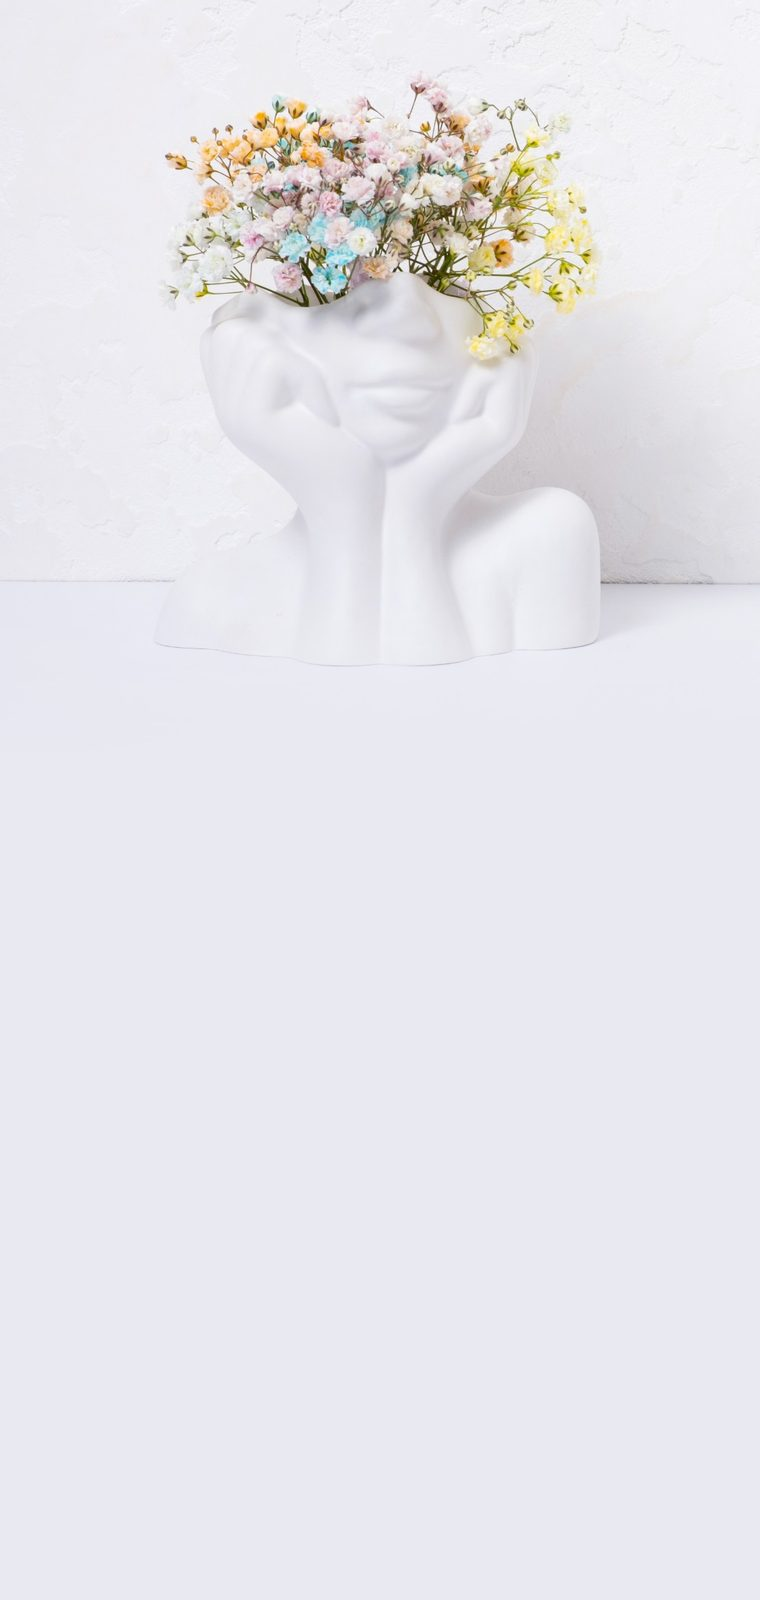
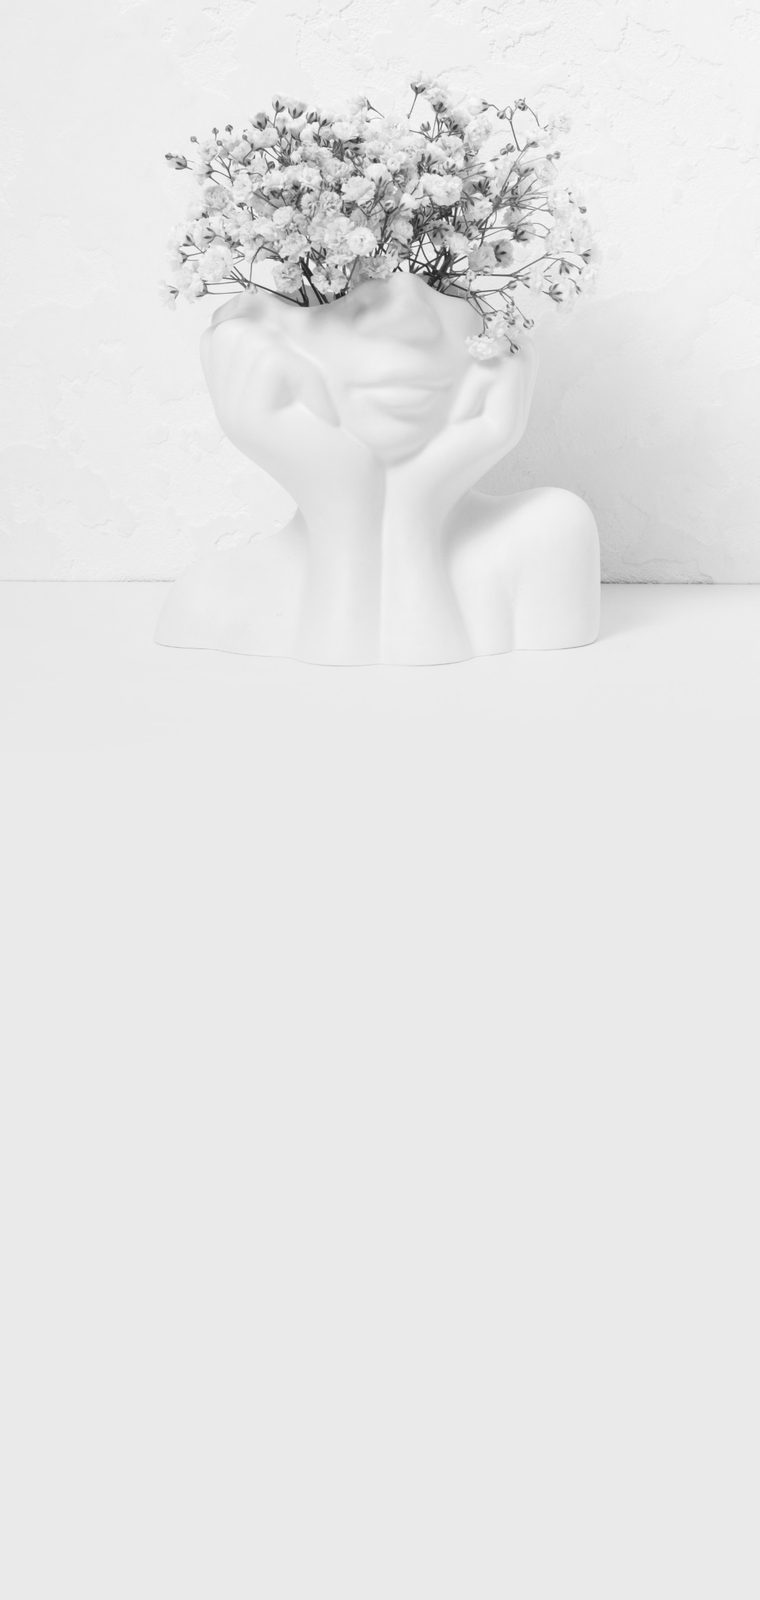
C: imagem do topo em tons de cinza e quadro de texto que sobe sobre ela
- A imagem do topo passa a ser um arquivo em tons de cinza (regra do protótipo).
- No começo da rolagem, a imagem fica parada (sticky) e o quadro de texto sobe
  por cima dela até cobri-la (35% da altura da tela); depois, tudo segue rolando.
  Com "reduzir movimento", a imagem rola junto com o texto.
- Sai o encaixe na rolagem herdado da B: ele puxava a página de volta e brigava
  com o efeito.
- Especificação da C, MUDANCAS e CLAUDE.md atualizados.

Claude-Session: https://claude.ai/code/session_01SbXmNJWouaBwHEo1Xrizwe

Changed region(s): [[0.2118, 0.0625, 0.7868, 0.2188]]

diff --git a/alternativa-c/estilo-c.css b/alternativa-c/estilo-c.css
@@ -24,8 +24,7 @@
   --tom-carta-atras-1: #e0e0e0;
   --tom-carta-atras-2: #cbcbcb;
   --serifa: ui-serif, Georgia, "Times New Roman", serif; /* só no nome e na profissão do topo */
-  /* só o topo "encaixa" na rolagem; as demais seções têm a altura do conteúdo */
-  scroll-snap-type: y proximity;
+  /* sem encaixe na rolagem: ele brigaria com a imagem parada do topo */
   scroll-padding-top: var(--altura-cabecalho);
 }
 
@@ -238,37 +237,51 @@ main > .secao:last-child {
 
 /* ---------- 1. Topo em tela cheia ---------- */
 
+/* O topo tem a altura da tela e mais um trecho de rolagem (--topo-rolagem). Nesse trecho a
+   imagem fica parada (sticky) e o quadro de texto sobe por cima dela; depois, tudo segue rolando. */
 .topo {
+  --altura-imagem: calc(100vh - var(--altura-cabecalho) - 12px);
+  --topo-rolagem: 35vh;
   position: relative;
-  display: flex;
-  flex-direction: column;
-  justify-content: flex-end;
-  min-height: calc(100vh - var(--altura-cabecalho));
-  min-height: calc(100svh - var(--altura-cabecalho));
+  display: grid;
+  grid-template-rows: minmax(var(--altura-imagem), auto) var(--topo-rolagem);
   padding: 0 12px 12px;
-  scroll-snap-align: start;
   scroll-margin-top: 0;
 }
 
-/* Imagem da identidade visual: ocupa todo o bloco; o busto fica no centro da faixa de cima,
-   acima do painel de texto. Em telas mais baixas, o recorte acompanha pelo alto. */
+@supports (height: 100svh) {
+  .topo {
+    --altura-imagem: calc(100svh - var(--altura-cabecalho) - 12px);
+    --topo-rolagem: 35svh;
+  }
+}
+
+/* Imagem da identidade visual (tons de cinza): ocupa a primeira tela; o busto fica no centro
+   da faixa de cima, acima do quadro de texto. Ocupa as duas linhas para poder ficar parada. */
 .topo-imagem {
-  position: absolute;
-  top: 0;
-  left: 12px;
-  width: calc(100% - 24px);
-  height: calc(100% - 12px);
+  grid-column: 1;
+  grid-row: 1 / 3;
+  align-self: start;
+  position: sticky;
+  top: var(--altura-cabecalho);
+  width: 100%;
+  height: var(--altura-imagem);
   border-radius: var(--raio-cartao);
   object-fit: cover;
   object-position: center top;
   background: var(--superficie-forte); /* enquanto a imagem carrega */
 }
 
+/* Quadro de texto e ação: na base da primeira tela, por cima da imagem */
 .topo-conteudo {
+  grid-column: 1;
+  grid-row: 1;
+  align-self: end;
   position: relative;
+  z-index: 1;
   display: grid;
   gap: 12px;
-  padding: 72px 12px 12px;
+  padding: 12px;
 }
 
 /* Fundo claro semitransparente sobre a imagem: garante contraste AA */
@@ -926,8 +939,17 @@ main > .secao:last-child {
   }
 }
 
-/* "Reduzir movimento": sem entrada, sem deslize nem giro; só troca de opacidade */
+/* "Reduzir movimento": sem entrada, sem deslize nem giro; só troca de opacidade.
+   No topo, a imagem não fica parada: rola junto com o texto. */
 @media (prefers-reduced-motion: reduce) {
+  .topo {
+    --topo-rolagem: 0px;
+  }
+
+  .topo-imagem {
+    position: static;
+  }
+
   .barra-pilula,
   .barra-pilula.visivel,
   .botao-topo,

diff --git a/docs/especificacao-alternativa-c.md b/docs/especificacao-alternativa-c.md
@@ -55,7 +55,7 @@ Substituir os espaços reservados:
 | 10 | Rodapé (seção 1.1) |
 | — | Barra flutuante em pílula com WhatsApp e Agendar sessão (2.6) e botão de voltar ao topo (2.7) |
 
-Em relação à B, sai do Início: o seletor em arco com emoções, o botão "Continuar" e a seção "Como é uma sessão" em lista (ela vira um cartão do baralho). Os blocos de tela cheia com rolagem que encaixa ficam só no topo (seção 1); as demais seções têm a altura do próprio conteúdo.
+Em relação à B, sai do Início: o seletor em arco com emoções, o botão "Continuar" e a seção "Como é uma sessão" em lista (ela vira um cartão do baralho). Só o topo (seção 1) tem a altura da tela; as demais seções têm a altura do próprio conteúdo. Não há encaixe na rolagem (ver seção 2.1).
 
 O cabeçalho do Início continua só com o botão de menu. O menu e o rodapé levam às páginas da própria C (seção 3A): `sobre.html`, `atendimento.html`, `conteudo.html` e `duvidas.html`.
 
@@ -64,7 +64,8 @@ Todo "Agendar sessão" da C leva ao agendamento da C (`agendar.html`). "Agendar 
 ### 2.1 Topo
 
 - Ocupa a altura da tela do celular (menos o cabeçalho).
-- Fundo: a imagem da identidade visual (busto com flores), em `alternativa-c/img/topo.jpg`, no lugar do espaço reservado. Ela foi recortada em retrato com o busto no centro da faixa de cima, acima do painel de texto; abaixo, a superfície da mesa continua sem emenda. É decorativa (`alt=""`), local (sem chamada de rede) e a única foto do protótipo. O texto fica por cima, numa área com fundo claro semitransparente que garante contraste AA.
+- Rolagem: no começo da rolagem, a imagem fica parada e o quadro de texto sobe por cima dela, até cobri-la (trecho de 35% da altura da tela); depois, tudo segue rolando. Com "reduzir movimento", a imagem rola junto com o texto. Sem encaixe na rolagem, que brigaria com esse efeito.
+- Fundo: a imagem da identidade visual (busto com flores), em tons de cinza, em `alternativa-c/img/topo.jpg`, no lugar do espaço reservado. Ela foi recortada em retrato com o busto no centro da faixa de cima, acima do painel de texto; abaixo, a superfície da mesa continua sem emenda. É decorativa (`alt=""`), local (sem chamada de rede) e a única foto do protótipo. O texto fica por cima, numa área com fundo claro semitransparente que garante contraste AA.
 - Composição tipográfica, de cima para baixo:
   - "Maria Clara Vinotti" em tamanho grande (40 px no celular), fonte serifada do sistema (`ui-serif, Georgia, serif`), sem fontes externas.
   - "Parapsicóloga clínica" em itálico, mesma família serifada, 20 px.

diff --git a/alternativa-c/MUDANCAS.md b/alternativa-c/MUDANCAS.md
@@ -26,7 +26,7 @@ A C é um site completo: Início, quiz, páginas internas (Sobre, Atendimento, C
 - "Voltar" no cabeçalho das páginas internas e do quiz leva ao Início da C. No agendamento, "Voltar" no passo 1 devolve à página da C de onde a pessoa veio.
 
 **Imagem do topo**
-- A foto original (paisagem, busto à esquerda) foi recortada em retrato com o busto no centro e a parede de cima reduzida, para a figura caber inteira acima do painel de texto no celular (390 × 844). A mesa continua para baixo com a cor média dela, numa mistura gradual. Em telas mais baixas (667 px), o painel cobre parte do busto.
+- A foto original (paisagem, busto à esquerda, em cores) foi convertida para tons de cinza e recortada em retrato com o busto no centro e a parede de cima reduzida, para a figura caber inteira acima do painel de texto no celular (390 × 844). A mesa continua para baixo com a cor média dela, numa mistura gradual. Em telas mais baixas (667 px), o painel cobre parte do busto.
 
 **Vídeo do canal**
 - O player é criado só no toque, a partir de `youtube-nocookie.com`; antes disso, nenhuma chamada ao YouTube. O título do iframe é o título do vídeo mostrado abaixo dele (h3).
@@ -66,7 +66,7 @@ A C é um site completo: Início, quiz, páginas internas (Sobre, Atendimento, C
 | 10 | Rodapé com o CVV discreto e a linha de registro | Mudança global (também na A) |
 | — | Barra flutuante em pílula e voltar ao topo | Substituem o botão flutuante de WhatsApp |
 
-Só o topo tem a altura da tela e "encaixa" na rolagem.
+Só o topo tem a altura da tela. No começo da rolagem, a imagem fica parada e o quadro de texto sobe por cima dela; o encaixe na rolagem (herdado da B) saiu, porque puxava a página de volta e brigava com esse efeito.
 
 ## 5. Linha visual (estrutura, não estética)
 

diff --git a/CLAUDE.md b/CLAUDE.md
@@ -31,7 +31,7 @@ Protótipo navegável, em fidelidade baixa, do site da Maria Clara Vinotti, para
 - Fidelidade baixa: só tons de cinza neutros, uma cor escura para botões principais, fonte `system-ui`.
 - Sem cores de marca, ilustrações, fotos ou animações decorativas. Imagens e vídeos são caixas cinza tracejadas com rótulo entre colchetes.
 - Mobile first (390 px). No desktop, centralizar com largura máxima de 480 px.
-- Exceções da C, definidas na especificação dela: a imagem da identidade visual no topo do Início (`alternativa-c/img/topo.jpg`, no lugar da caixa tracejada), serifa do sistema no nome e na profissão do topo, e animações só como marcação de intenção (entrada do topo, giro e troca dos cartões, barra flutuante, voltar ao topo), sempre desligadas com "reduzir movimento".
+- Exceções da C, definidas na especificação dela: a imagem da identidade visual no topo do Início (`alternativa-c/img/topo.jpg`, em tons de cinza, no lugar da caixa tracejada), serifa do sistema no nome e na profissão do topo, e animações só como marcação de intenção (entrada do topo, giro e troca dos cartões, barra flutuante, voltar ao topo), sempre desligadas com "reduzir movimento".
 
 ## Acessibilidade
 
